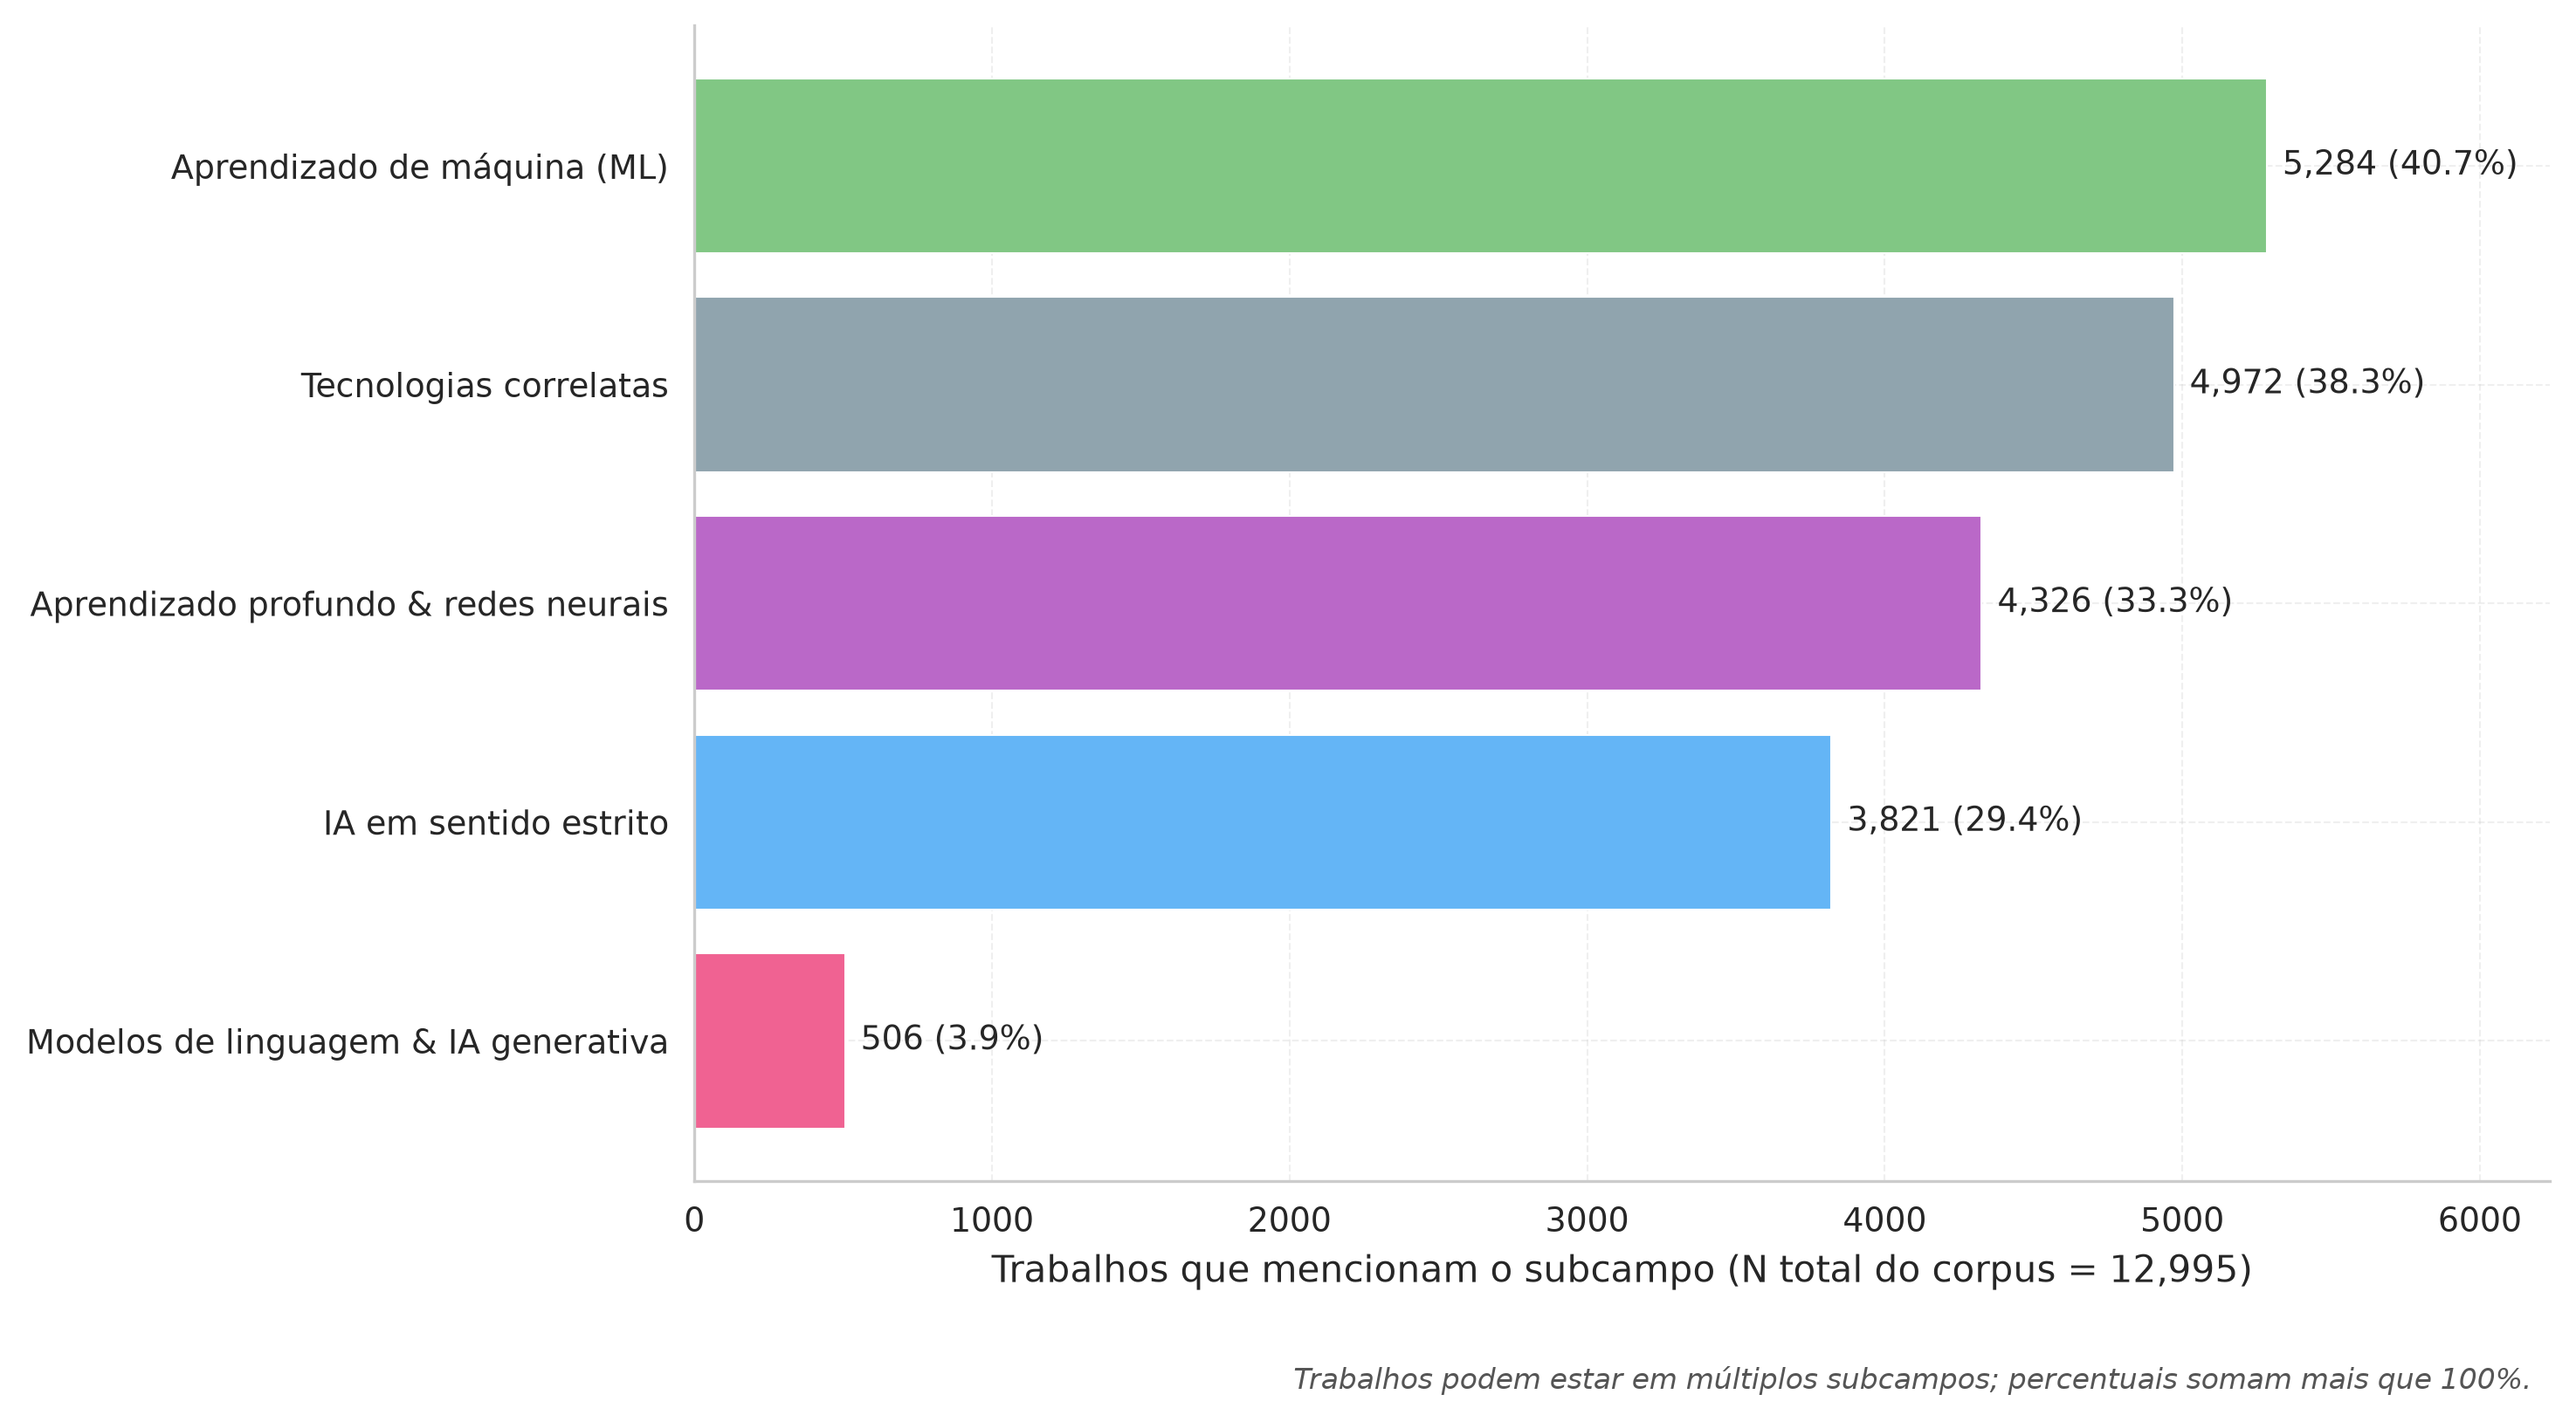
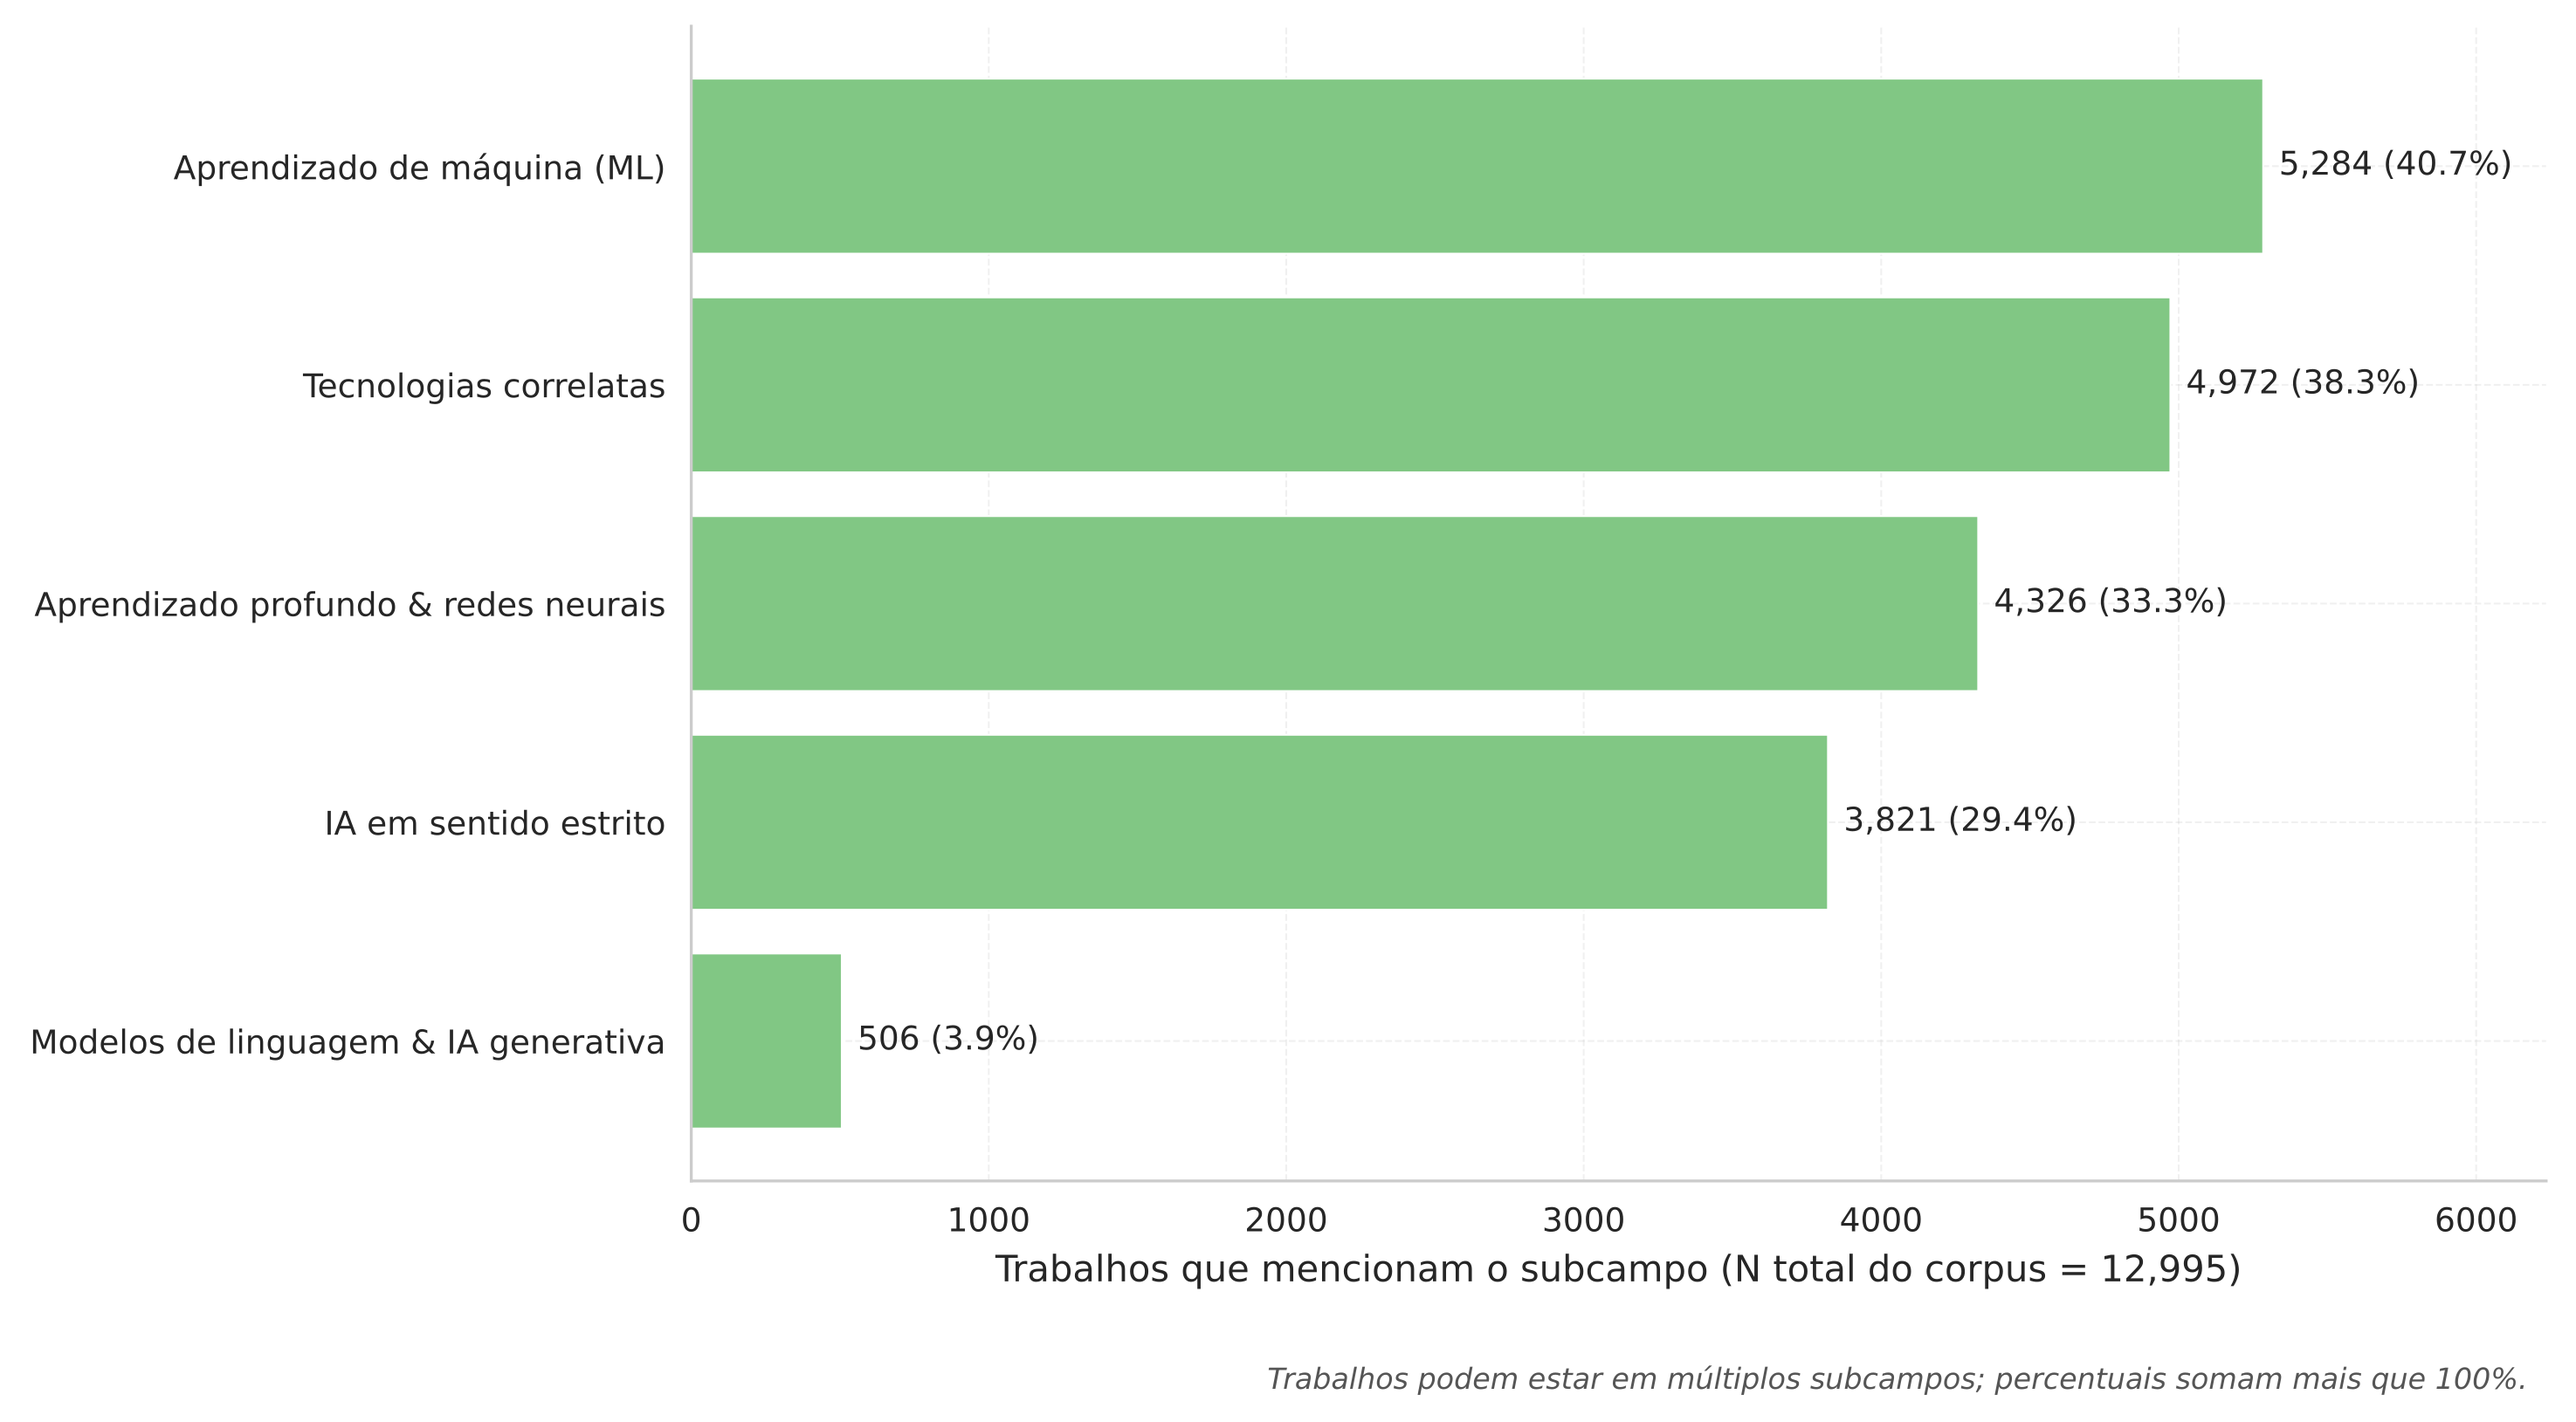
Padroniza cor por base nas distribuições por subcampo (CAPES verde, SciELO azul)
Cada base de dados ganha uma cor-assinatura única nos gráficos de barras, em vez
de uma cor por subcampo. O leitor passa a identificar a base pela cor.

- capes_21_subcampos_distribuicao: 5 barras agora verdes (#81C784)
- scielo_21_subcampos_distribuicao: 5 barras agora azuis (#64B5F6)
- openalex_04 (3 bases) já usava verde/azul/vermelho e valida o esquema

Edições em figuras_capes_2021_2024.py e figuras_scielo_articlemeta.py (fig21).
As figuras publicadas (PNG+SVG) foram recoloridas sobre o SVG, sem alterar
nenhuma contagem nem o layout (SciELO mantém a coorte estrita N=631). Decisão
registrada em docs/decisoes_metodologicas.md.

Claude-Session: https://claude.ai/code/session_015WtRRv5Syow6Xra2dQGyoj

diff --git a/figuras_capes_2021_2024.py b/figuras_capes_2021_2024.py
@@ -502,15 +502,17 @@ def fig21_subcampos_distribuicao(df: pd.DataFrame) -> None:
     for col, label in SUBCAMPO_COLS:
         counts.append(_bool_col(df, col).sum())
     total = len(df)
-    # Ordena visualmente (maior para menor, mas mantém cor por subcampo)
+    # Ordena visualmente (maior para menor por volume).
     pares = sorted(zip([l for _, l in SUBCAMPO_COLS], counts, SUBCAMPO_CORES),
                    key=lambda x: x[1])
     labels = [p[0] for p in pares]
     vals = [p[1] for p in pares]
-    cores = [p[2] for p in pares]
+    # Cor-assinatura única da base CAPES (verde); padronização por base de dados,
+    # em vez de uma cor por subcampo. Ver scielo (azul) e openalex_04 (vermelho).
+    cor_base = CORES_INTERMEDIARIAS[2]
 
     fig, ax = plt.subplots(figsize=(10, 5.5))
-    bars = ax.barh(labels, vals, color=cores, edgecolor="white", linewidth=0.5)
+    bars = ax.barh(labels, vals, color=cor_base, edgecolor="white", linewidth=0.5)
     for bar, val in zip(bars, vals):
         ax.text(bar.get_width() + max(vals) * 0.01,
                 bar.get_y() + bar.get_height() / 2,

diff --git a/figuras_scielo_articlemeta.py b/figuras_scielo_articlemeta.py
@@ -471,9 +471,11 @@ def fig21_subcampos_dist(df):
     pares.sort(key=lambda x: x[1])
     labels = [p[0] for p in pares]
     vals = [p[1] for p in pares]
-    cores = [p[2] for p in pares]
+    # Cor-assinatura única da base SciELO (azul); padronização por base de dados,
+    # em vez de uma cor por subcampo. Ver capes (verde) e openalex_04 (vermelho).
+    cor_base = CORES_INTERMEDIARIAS[3]
     fig, ax = plt.subplots(figsize=(10, 5.5))
-    bars = ax.barh(labels, vals, color=cores, edgecolor="white", linewidth=0.5)
+    bars = ax.barh(labels, vals, color=cor_base, edgecolor="white", linewidth=0.5)
     for bar, val in zip(bars, vals):
         ax.text(bar.get_width() + max(vals) * 0.02,
                 bar.get_y() + bar.get_height()/2,

diff --git a/docs/decisoes_metodologicas.md b/docs/decisoes_metodologicas.md
@@ -422,3 +422,25 @@ Estas coortes foram superadas durante o trabalho. **Persistem no repositório** 
 5. **Regra de método:** todo número desta página sai de operação atômica em pandas (`len`, `value_counts`, `groupby().size()`, divisão direta), nunca de soma feita em prosa.
 
 *Última verificação completa: 23 de maio de 2026 — auditoria cruzada de `capes_2021_2024_ia_auditoria.xlsx`, `capes_2021_2024_ia_humanas_completo.xlsx`, `capes_2021_2024_universo_por_grande_area.csv`, `scielo_brasil_ia_subcampos_auditoria.xlsx` e `scielo_brasil_universo_agregado.csv`. Todos os números foram lidos via pandas diretamente das fontes primárias, não inferidos. Achados narrativos novos propagados para README e inventário no mesmo dia: (a) os 3 artigos de Mana são todos de 2024 e todos via big data (subcampo Correlatos), não IA stricto; (b) inversão da hierarquia de subcampos entre as bases — CAPES tem ML > IA stricto, SciELO tem IA stricto > ML; (c) distinção NM_AREA_CONHECIMENTO (disciplinar) vs NM_AREA_AVALIACAO (administrativa CAPES), que afeta especialmente a contagem de Antropologia (4 vs 6). Auditoria figura-a-figura do inventário no mesmo dia detectou e corrigiu quatro captions com números pré-auditoria: (i) capes_15 "53/35/12%" → "55,0/30,2/14,4%" + Doutorado Profissional 0,3%; (ii) capes_h02 "80 → mais de 150" → "69 → 142 (+106%)"; (iii) scielo_15 "português dominante" → INVERSÃO, inglês domina com 487 (77,2%); (iv) capes_17 top IES com ordem verificada (USP 647, UNICAMP 486, UnB 402, UFMG 401, UFRJ 376, etc.).*
+
+---
+
+## Padronização de cor por base de dados (27 de junho de 2026)
+
+Decisão de visualização: cada base de dados passa a ter uma cor-assinatura única
+nos gráficos de barras, em vez de uma cor por subcampo. O leitor identifica a
+base pela cor, de modo consistente entre as figuras.
+
+- **CAPES → verde** (`CORES_INTERMEDIARIAS[2]`, `#81C784`)
+- **SciELO → azul** (`CORES_INTERMEDIARIAS[3]`, `#64B5F6`)
+- **OpenAlex → vermelho** (`CORES_INTERMEDIARIAS[0]`, `#E57373`)
+
+O mapa segue o que `openalex_04_subcampos_3bases` já adotava (única figura em que
+as três bases aparecem juntas), agora estendido às distribuições por subcampo.
+`capes_21_subcampos_distribuicao` (5 barras, todas verdes) e
+`scielo_21_subcampos_distribuicao` (5 barras, todas azuis) deixaram de usar a
+paleta de cinco cores por subcampo; `openalex_04` permanece como estava e valida
+o esquema. Aplicado em `figuras_capes_2021_2024.py` (fig21) e
+`figuras_scielo_articlemeta.py` (fig21). Nenhum número mudou: a recoloração das
+figuras já publicadas foi feita sobre o SVG, preservando contagens e layout
+(SciELO mantém a coorte estrita N=631).
